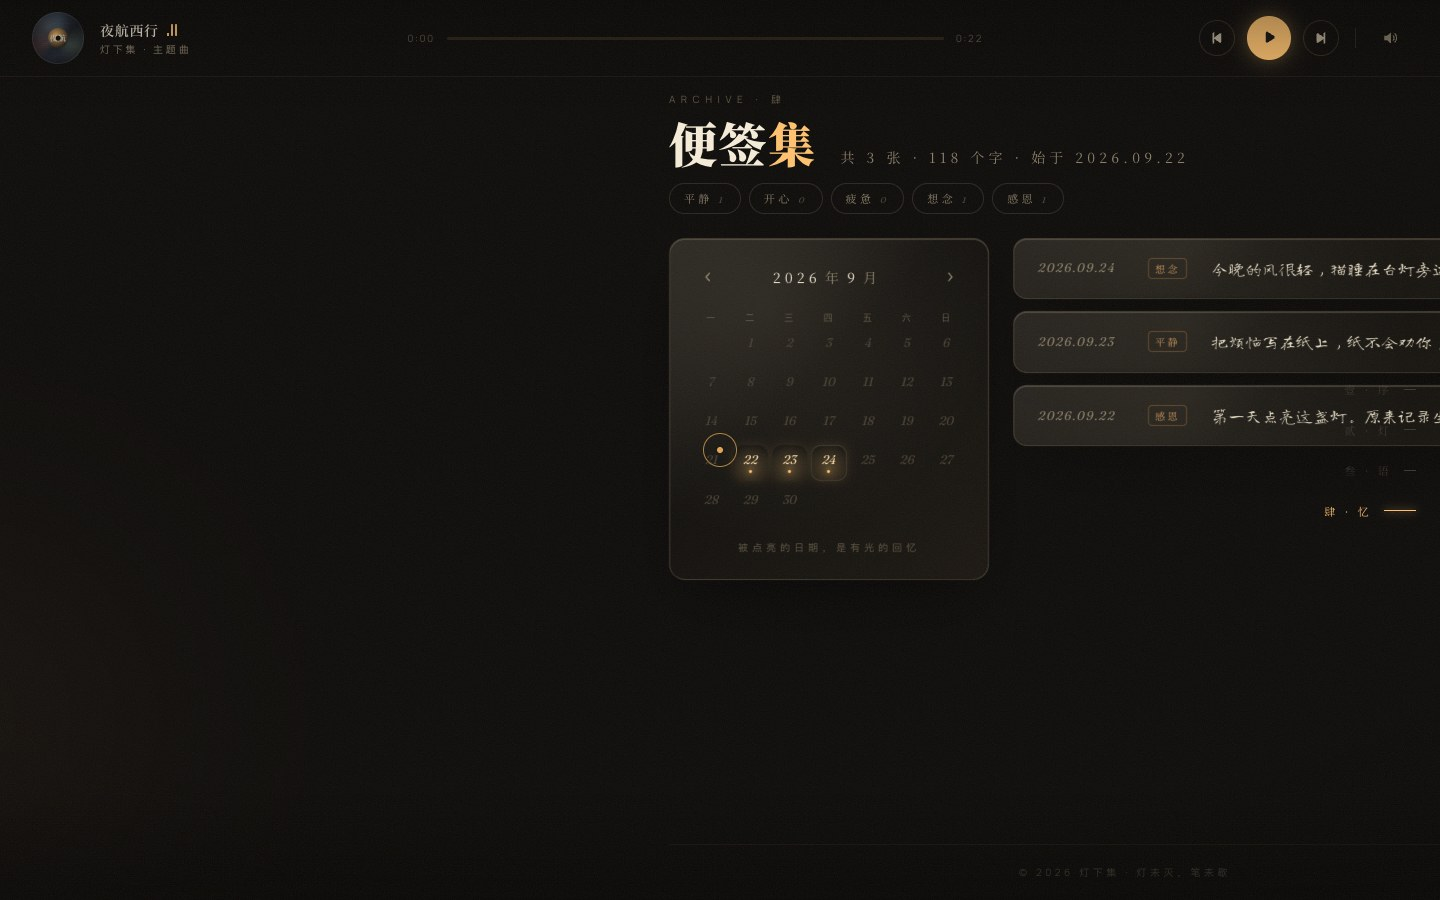
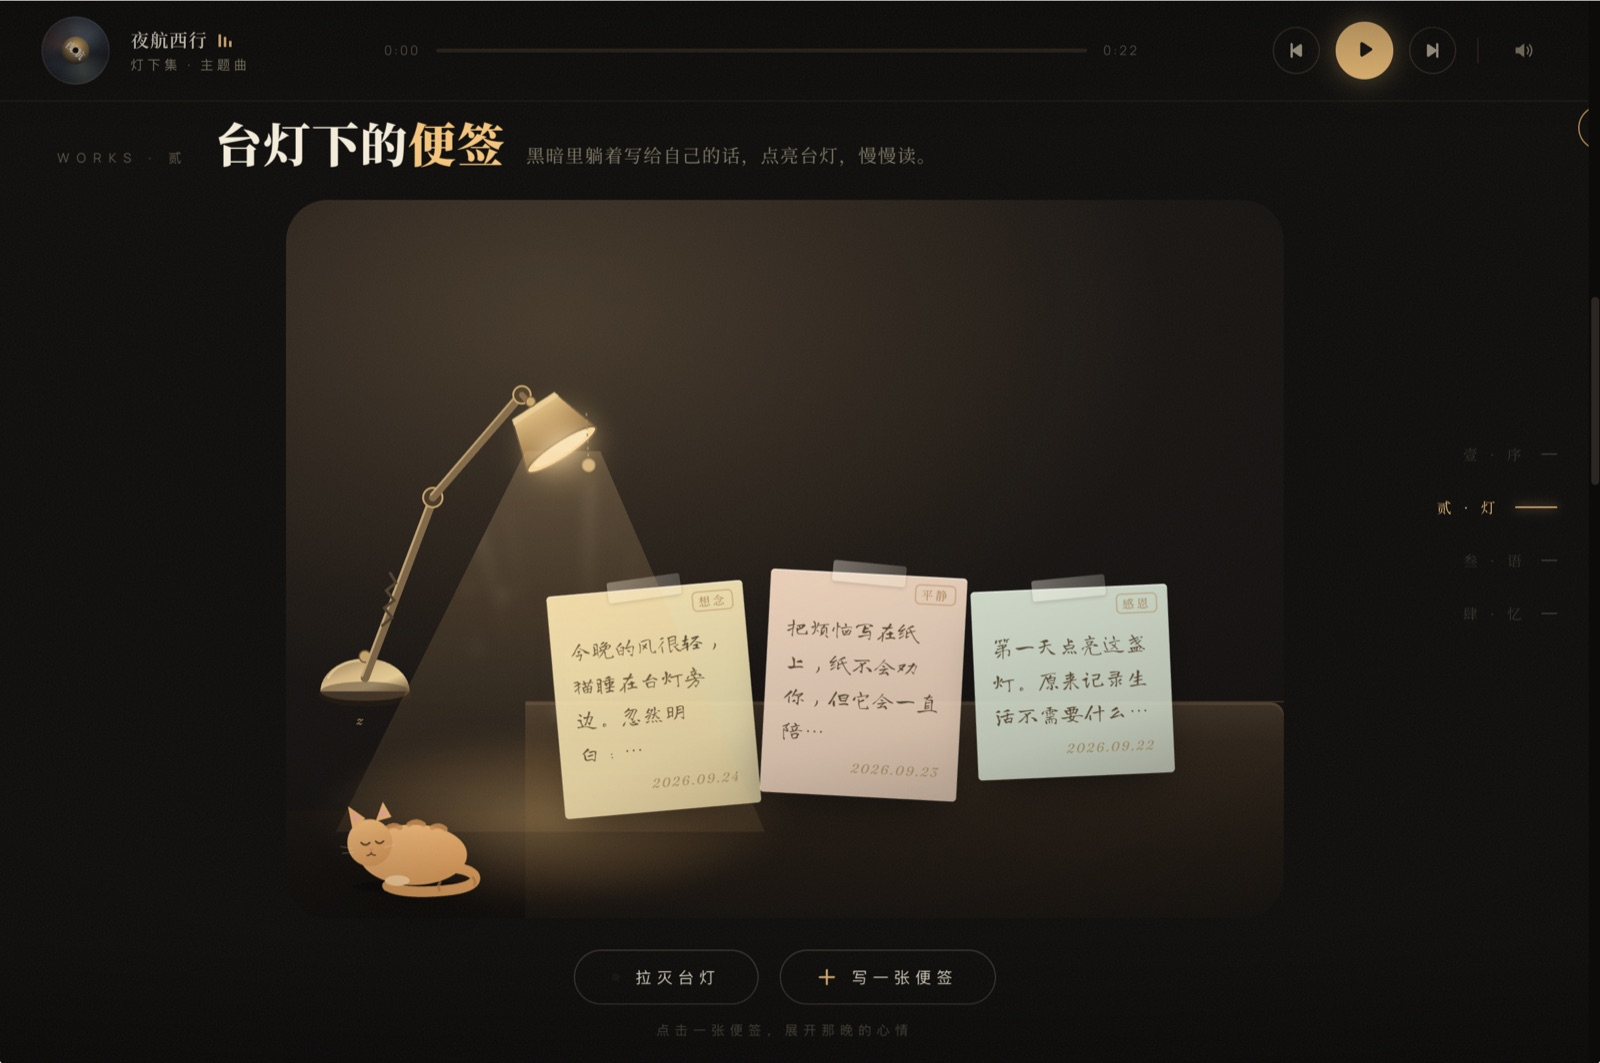
部署更新：灯下集卡片大图换为 lamp-shot2 台灯场景图

diff --git a/index.html b/index.html
@@ -1080,7 +1080,7 @@ footer a:hover{color:var(--accent);}
                 <p style="margin-top:1rem"><a class="u-link" href="https://0505ttt.github.io/lampfolio/" target="_blank" rel="noopener">在线访问灯下集 ↗</a></p>
                 <ul class="wd-tags"><li>REACT 19</li><li>GSAP</li><li>LENIS</li><li>VITE</li></ul>
               </div>
-              <figure class="wd-media"><img src="work-lamp-archive.jpg" alt="灯下集 · 便签集面板" loading="lazy"></figure>
+              <figure class="wd-media"><img src="work-lamp-archive.jpg?v=2" alt="灯下集 · 台灯下的便签" loading="lazy"></figure>
             </div>
           </div>
         </div>
